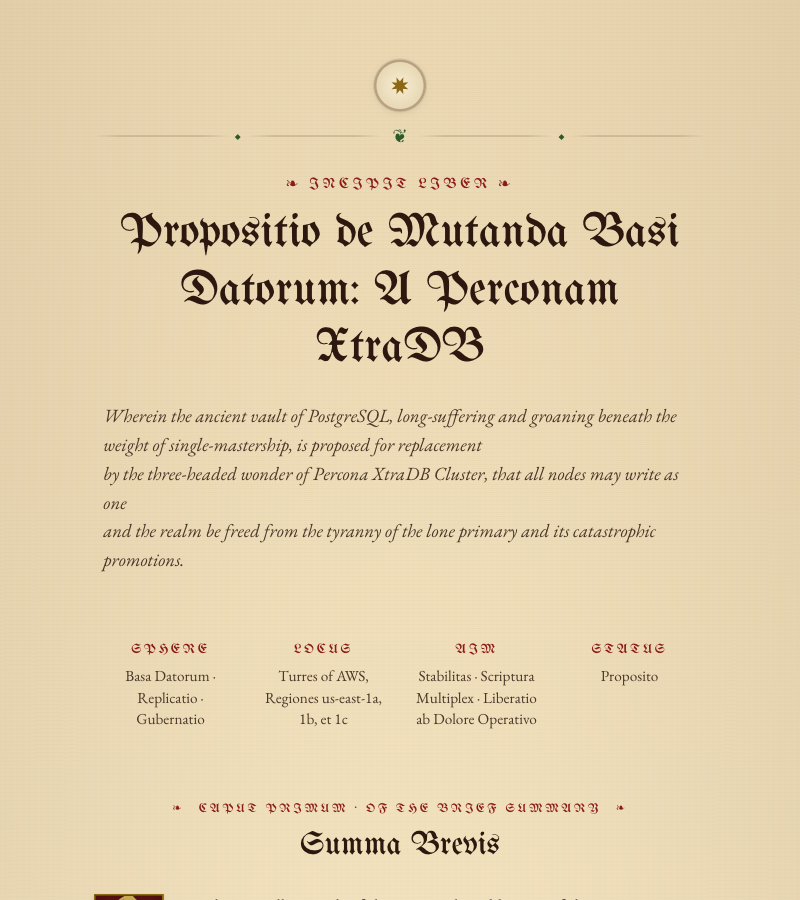
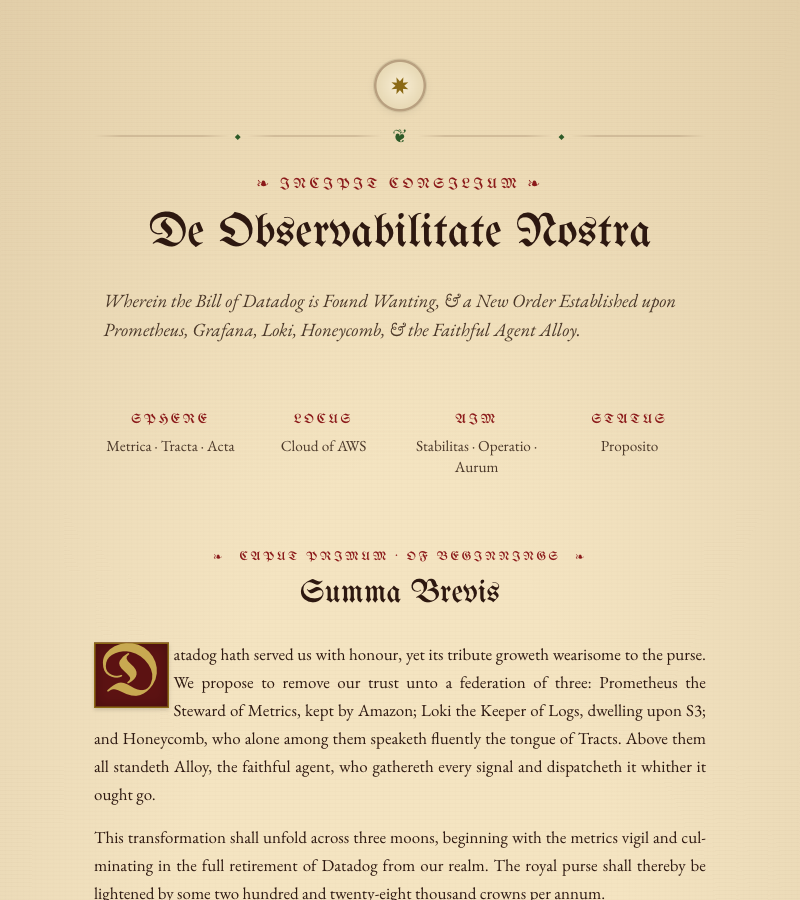
Rebrand to "Request for Counsel" and fix subtitle wrapping
- Add "Request for Counsel" as expanded name in README
- Change "Incipit Liber" to "Incipit Consilium" in template
- Render subtitle as single flowing div instead of split/br loop
- Update system prompt to request single sentence subtitle (no \n)
- Regenerate example.png with updated branding

diff --git a/template.html b/template.html
@@ -328,16 +328,14 @@
   </div>
 
   <!-- Incipit -->
-  <div class="incipit">&#10087; Incipit Liber &#10087;</div>
+  <div class="incipit">&#10087; Incipit Consilium &#10087;</div>
 
   <!-- Title -->
   <h1 class="title">{{ title }}</h1>
 
   <!-- Subtitle -->
   <div class="subtitle">
-    {% for line in subtitle.split('\n') %}
-      {{ line }}{% if not loop.last %}<br>{% endif %}
-    {% endfor %}
+    {{ subtitle }}
   </div>
 
   <!-- Rule -->

diff --git a/olde_rfc.py b/olde_rfc.py
@@ -26,7 +26,7 @@ documents (RFCs, specs, proposals, design docs) and transcribe them as medieval 
 You MUST output valid JSON with this exact structure:
 {
   "title": "A Latin or pseudo-Latin title for the document",
-  "subtitle": "2-3 lines of archaic English beginning with 'Wherein...', using \\n for line breaks",
+  "subtitle": "A single flowing sentence of archaic English beginning with 'Wherein...' (no line breaks — the browser will wrap naturally)",
   "metadata": {
     "sphere": "The domain/area in Latin-ized terms (e.g. 'Metrica \u00b7 Tracta \u00b7 Acta')",
     "locus": "Where it runs/applies in archaic terms (e.g. 'Cloud of AWS')",
@@ -92,8 +92,8 @@ Output ONLY the JSON object, no other text.
 MOCK_DATA = {
     "title": "De Observabilitate Nostra",
     "subtitle": (
-        "Wherein the Bill of Datadog is Found Wanting,\n"
-        "& a New Order Established upon Prometheus, Grafana,\n"
+        "Wherein the Bill of Datadog is Found Wanting, "
+        "& a New Order Established upon Prometheus, Grafana, "
         "Loki, Honeycomb, & the Faithful Agent Alloy."
     ),
     "metadata": {

diff --git a/README.md b/README.md
@@ -1,8 +1,8 @@
 # Ye Olde RFC
 
-Transform dry technical specs into medieval manuscripts — complete with blackletter fonts, illuminated drop caps, and mock-archaic English prose.
+**Request for Counsel** — transform dry technical specs into medieval manuscripts, complete with blackletter fonts, illuminated drop caps, and mock-archaic English prose.
 
-Feed it an RFC, get back a scroll.
+Feed it a Request for Counsel, get back a scroll.
 
 ![example output](example.png)
 
